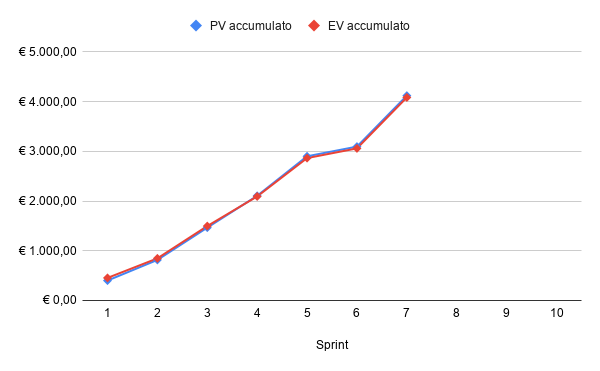
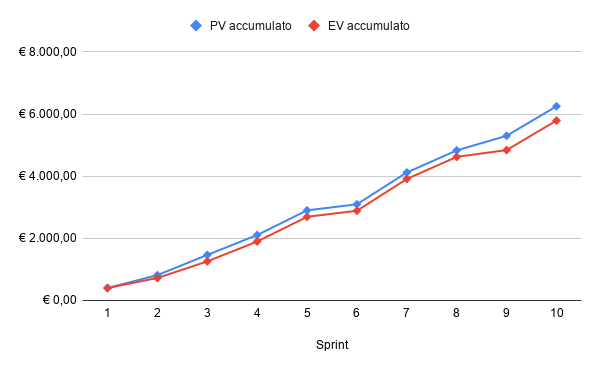
PdQ aggiornate tabelle e grafici, integrato nuovi dati  in valutazioni per il miglioramento

diff --git a/Documentazione/LaTeX/Piano di Qualifica/Piano di Qualifica.tex b/Documentazione/LaTeX/Piano di Qualifica/Piano di Qualifica.tex
@@ -858,16 +858,16 @@ L'Earned Value (EV) valuta in modo oggettivo il valore economico del lavoro effe
     \begin{tabular}{|c|c|c|c|c|}
         \hline
         \textbf{Sprint} & \textbf{Planned Value} & \textbf{Earned Value} & \textbf{PV accumulato} & \textbf{EV accumulato} \\ \hline
-        1  & \EUR{400,00} & \EUR{453,33} & \EUR{400,00} & \EUR{453,33} \\ \hline
-        2  & \EUR{415,00} & \EUR{393,16} & \EUR{815,00} & \EUR{846,49} \\ \hline
-        3  & \EUR{650,00} & \EUR{650,00} & \EUR{1.465,00} & \EUR{1.496,49} \\ \hline
-        4  & \EUR{640,00} & \EUR{595,86} & \EUR{2.105,00} & \EUR{2.092,35} \\ \hline
-        5  & \EUR{795,00} & \EUR{771,62} & \EUR{2.900,00} & \EUR{2.863,97} \\ \hline
-        6  & \EUR{195,00} & \EUR{195,00} & \EUR{3.095,00} & \EUR{3.058,97} \\ \hline
-        7  & \EUR{1.025,00} & \EUR{1.025,00} & \EUR{4.120,00} & \EUR{4.083,97} \\ \hline
-        8  & & & & \\ \hline
-        9  & & & & \\ \hline
-        10 & & & & \\ \hline
+        1  & \EUR{400,00} & \EUR{400,00} & \EUR{400,00} & \EUR{400,00} \\ \hline
+        2  & \EUR{415,00} & \EUR{322,78} & \EUR{815,00} & \EUR{722,78} \\ \hline
+        3  & \EUR{650,00} & \EUR{533,93} & \EUR{1.465,00} & \EUR{1.256,71} \\ \hline
+        4  & \EUR{640,00} & \EUR{640,00} & \EUR{2.105,00} & \EUR{1.896,71} \\ \hline
+        5  & \EUR{795,00} & \EUR{795,00} & \EUR{2.900,00} & \EUR{2.691,71} \\ \hline
+        6  & \EUR{195,00} & \EUR{195,00} & \EUR{3.095,00} & \EUR{2.886,71} \\ \hline
+        7  & \EUR{1.025,00} & \EUR{1.025,00} & \EUR{4.120,00} & \EUR{3.911,71} \\ \hline
+        8  & \EUR{710,00} & \EUR{710,00} & \EUR{4.830,00} & \EUR{4.621,71} \\ \hline
+        9  & \EUR{470,00} & \EUR{218,21} & \EUR{5.300,00} & \EUR{4.839,92} \\ \hline
+        10 & \EUR{950,00} & \EUR{950,00} & \EUR{6.250,00} & \EUR{5.789,92} \\ \hline
     \end{tabular}
     \caption{Andamento Planned Value (PV) ed Earned Value (EV)}
     \label{tab:valori_sprint}
@@ -904,16 +904,16 @@ L'Actual Cost (AC) quantifica il costo effettivo e documentato sostenuto per le 
         \begin{tabular}{|c|c|c|c|c|c|}
         \hline
         \textbf{Sprint} & \textbf{Actual Cost} & \textbf{AC accumulato} & \textbf{ETC} & \textbf{EAC} & \textbf{BAC} \\ \hline
-        1  & \EUR{355,00} & \EUR{355,00} & \EUR{8.454,74} & \EUR{8.809,74} & \EUR{11.250,00} \\ \hline
-        2  & \EUR{435,00} & \EUR{790,00} & \EUR{9.709,22} & \EUR{10.499,22} & \EUR{11.250,00} \\ \hline
-        3  & \EUR{650,00} & \EUR{1.440,00} & \EUR{9.385,32} & \EUR{10.825,32} & \EUR{11.250,00} \\ \hline
-        4  & \EUR{685,00} & \EUR{2.125,00} & \EUR{9.300,53} & \EUR{11.425,53} & \EUR{11.250,00} \\ \hline
-        5  & \EUR{815,00} & \EUR{2.940,00} & \EUR{8.608,65} & \EUR{11.548,65} & \EUR{11.250,00} \\ \hline
-        6  & \EUR{195,00} & \EUR{3.135,00} & \EUR{8.394,61} & \EUR{11.529,61} & \EUR{11.250,00} \\ \hline
-        7  & \EUR{1.055,00} & \EUR{4.190,00} & \EUR{7.352,08} & \EUR{11.542,08} & \EUR{11.250,00} \\ \hline
-        8  &  &  & & & \EUR{11.250,00} \\ \hline
-        9  &  &  & & & \EUR{11.250,00} \\ \hline
-        10 &  &  & & & \EUR{11.250,00} \\ \hline
+        1  & \EUR{355,00} & \EUR{355,00} & \EUR{9.629,38} & \EUR{9.984,38} & \EUR{11.250,00} \\ \hline
+        2  & \EUR{435,00} & \EUR{790,00} & \EUR{11.506,31} & \EUR{12.296,31} & \EUR{11.250,00} \\ \hline
+        3  & \EUR{650,00} & \EUR{1.440,00} & \EUR{11.450,84} & \EUR{12.890,84} & \EUR{11.250,00} \\ \hline
+        4  & \EUR{685,00} & \EUR{2.125,00} & \EUR{10.479,09} & \EUR{12.604,09} & \EUR{11.250,00} \\ \hline
+        5  & \EUR{815,00} & \EUR{2.940,00} & \EUR{9.347,74} & \EUR{12.287,74} & \EUR{11.250,00} \\ \hline
+        6  & \EUR{195,00} & \EUR{3.135,00} & \EUR{9.082,64} & \EUR{12.217,64} & \EUR{11.250,00} \\ \hline
+        7  & \EUR{1.055,00} & \EUR{4.190,00} & \EUR{7.860,37} & \EUR{12.050,37} & \EUR{11.250,00} \\ \hline
+        8  & \EUR{730,00} & \EUR{4.920,00} & \EUR{7.056,10} & \EUR{11.976,10} & \EUR{11.250,00} \\ \hline
+        9  & \EUR{280,00} & \EUR{5.200,00} & \EUR{6.886,98} & \EUR{12.086,98} & \EUR{11.250,00} \\ \hline
+        10 & \EUR{915,00} & \EUR{6.115,00} & \EUR{5.766,64} & \EUR{11.881,64} & \EUR{11.250,00} \\ \hline
         \end{tabular}   
     \caption{Andamento Actual Cost (AC), Estimate To Complete (ETC) ed Estimate At Complition (EAC)}
     \label{tab:costi_sprint}
@@ -957,16 +957,16 @@ Il Time Estimate At Completion (TEAC) proietta la durata complessiva finale del 
     \begin{tabular}{|c|c|}
         \hline
         \textbf{Sprint} & \textbf{TEAC (settimane)} \\ \hline
-        1  & 21 \\ \hline
-        2  & 23 \\ \hline
-        3  & 23 \\ \hline
-        4  & 24 \\ \hline
-        5  & 24 \\ \hline
-        6  & 24 \\ \hline
-        7  & 24 \\ \hline
-        8  &  \\ \hline
-        9  &    \\ \hline
-        10 &    \\ \hline
+        1  & 24 \\ \hline
+        2  & 27 \\ \hline
+        3  & 28 \\ \hline
+        4  & 27 \\ \hline
+        5  & 26 \\ \hline
+        6  & 26 \\ \hline
+        7  & 25 \\ \hline
+        8  & 25 \\ \hline
+        9  & 26  \\ \hline
+        10 & 26  \\ \hline
     \end{tabular}
     \caption{Andamento Time Estimate At Completion (TEAC)}
     \label{tab:teac_sprint}
@@ -997,17 +997,17 @@ Il Cost Performance Index (CPI) misura l’efficienza economica del progetto ind
     \renewcommand{\arraystretch}{1.3} 
     \begin{tabular}{|c|c|c|c|}
         \hline
-        \textbf{Sprint} & \textbf{\# SPI} & \textbf{\# CPI} & \textbf{Soglia accettabile} \\ \hline
-        1  & 1,13 & 1,28 & 0,9 \\ \hline
-        2  & 1,04 & 1,07 & 0,9 \\ \hline
-        3  & 1,02 & 1,04 & 0,9 \\ \hline
-        4  & 0,99 & 0,98 & 0,9 \\ \hline
-        5  & 0,99 & 0,97 & 0,9 \\ \hline
-        6  & 0,99 & 0,98 & 0,9 \\ \hline
-        7  & 0,99 & 0,97 & 0,9 \\ \hline
-        8  & & & 0,9 \\ \hline
-        9  & & & 0,9 \\ \hline
-        10 & & & 0,9 \\ \hline
+        \textbf{Sprint} & \textbf{SPI} & \textbf{PI} & \textbf{Soglia accettabile} \\ \hline
+        1  & 1,00 & 1,13 & 0,9 \\ \hline
+        2  & 0,89 & 0,91 & 0,9 \\ \hline
+        3  & 0,86 & 0,87 & 0,9 \\ \hline
+        4  & 0,90 & 0,89 & 0,9 \\ \hline
+        5  & 0,93 & 0,92 & 0,9 \\ \hline
+        6  & 0,93 & 0,92 & 0,9 \\ \hline
+        7  & 0,95 & 0,93 & 0,9 \\ \hline
+        8  & 0,96 & 0,94 & 0,9 \\ \hline
+        9  & 0,91 & 0,93 & 0,9 \\ \hline
+        10 & 0,93 & 0,95 & 0,9 \\ \hline
     \end{tabular}
     \caption{Andamento Schedule Performance Index (SPI) e Cost Performance Index (CPI)}
     \label{tab:spi_cpi_sprint}
@@ -1053,8 +1053,8 @@ Il Requirements Stability Index (RSI) misura la maturità e la stabilità dei re
         6  & 97  & 4  & 96\% & 80\% \\ \hline
         7  & 121 & 11 & 91\% & 80\% \\ \hline
         8  & 142 & 8  & 94\% & 80\% \\ \hline
-        9  &     &    &      & 80\% \\ \hline
-        10 &     &    &      & 80\% \\ \hline
+        9  & 142  & 0  & 100\%  & 80\% \\ \hline
+        10 & 142  & 0  & 100\%  & 80\% \\ \hline
     \end{tabular}
     \caption{Andamento del Requirements Stability Index (RSI)}
     \label{RSI}
@@ -1069,12 +1069,12 @@ Il Requirements Stability Index (RSI) misura la maturità e la stabilità dei re
 
 \subsubsection*{Valutazione dell'andamento}
 L'analisi del \textit{Requirements Stability Index} (RSI) evidenzia un andamento complessivamente adeguato, seppur con alcune dinamiche che meritano contestualizzazione. Nello \textit{Sprint} 1 la metrica non è calcolabile (N/A) in quanto il periodo è stato dedicato a uno studio generale del dominio, rimandando la definizione concreta dei requisiti allo \textit{Sprint} 2.
-Osservando i dati, emerge un incremento significativo e costante del numero totale di requisiti iterazione dopo iterazione (passando da 15 nello \textit{Sprint} 2 a 142 nello \textit{Sprint} 8). Sebbene una crescita così marcata in corso d'opera rappresenti in linea di principio un fattore negativo, sintomo di una possibile instabilità del perimetro di progetto, il numero dei requisiti effettivamente modificati resta molto contenuto, il calo dell'indice è stato mitigato dal fatto che il team ha operato principalmente per aggiunta, inoltre, l'ampio aumento dei requisiti negli \textit{Sprint} 7 e 8 è attribuibile a un lavoro di scomposizione di macro-requisiti in unità più granulari, senza che vi fossero reali modifiche al contenuto preesistente.
+Osservando i dati, emerge un incremento significativo e costante del numero totale di requisiti iterazione dopo iterazione (passando da 15 nello \textit{Sprint} 2 a 142 nello \textit{Sprint} 8). Sebbene una crescita così marcata in corso d'opera rappresenti in linea di principio un fattore negativo, sintomo di una possibile instabilità del perimetro di progetto, il numero dei requisiti effettivamente modificati resta molto contenuto, il calo dell'indice è stato mitigato dal fatto che il team ha operato principalmente per aggiunta, inoltre, l'ampio aumento dei requisiti negli \textit{Sprint} 7 e 8 è attribuibile a un lavoro di scomposizione di macro-requisiti in unità più granulari, senza che vi fossero reali modifiche al contenuto preesistente. Infine, negli \textit{Sprint} 9 e 10 il perimetro funzionale si è consolidato definitivamente: non sono stati né aggiunti né modificati requisiti, riportando e stabilizzando la metrica al valore del 100\%.
 
 \paragraph*{MP\_9 - Requirements Stability Index (RSI)}
 \begin{itemize}
     \item \textbf{Valore di accettazione ($\ge 80\%$):} Il vincolo è sempre rispettato.
-    \item \textbf{Valore ottimale ($= 100\%$):} Il vincolo risulta soddisfatto pienamente solo negli \textit{Sprint} 2 e 5. Nelle restanti iterazioni (3, 4, 6, 7 e 8) si registrano flessioni comprese tra il 91\% e il 97\%. 
+    \item \textbf{Valore ottimale ($= 100\%$):} Il vincolo risulta soddisfatto pienamente negli \textit{Sprint} 2, 5, 9 e 10. Nelle restanti iterazioni (3, 4, 6, 7 e 8) si registrano flessioni comprese tra il 91\% e il 97\%. 
 \end{itemize}
 
 \subsection{MP\_10: Indice di Gulpease (IG)}
@@ -1154,16 +1154,20 @@ L'indice dei Rischi non Preventivati valuta la qualità dell’analisi preventiv
 5 & \textbf{Analisi dei Requisiti} incompleta o errata, emersa da un disallineamento con il \textbf{Proponente} riguardo all'assenza di un \textit{orchestratore} preesistente. & Sì, (RR1) \\ \hline
 6 & Indisponibilità e vincoli di tempo dovuti alla drastica riduzione delle ore lavorabili da parte dei membri per la concomitanza con la sessione d'esami. & Sì, (RI1) \\ \hline
 7 & Sottostima e sovrastima delle attività, manifestatesi con uno scostamento tra le ore preventivate e quelle effettivamente impiegate dai singoli, oltre ad una scarsa pianificazione dovuta al accumulo del lavoro verso la fine dello \textit{sprint}. & Sì, (RO4, RO5, RO1) \\ \hline
+8 & Comunicazione interna inefficace durante le attività di verifica in parallelo, con conseguente mancanza di tracciamento delle sezioni revisionate e rischio di sovrapposizioni o mancati controlli. & Sì, (RO2) \\ \hline
+9 & Ritardo inatteso dovuto al mancato superamento della revisione \textbf{RTB}, che ha reso necessaria una ristrutturazione del \textbf{Proof of Concept (PoC)} per l'integrazione di ulteriori tecnologie. & No \\ \hline
+10 & Scarsa pianificazione e comunicazione interna inefficace nella distribuzione del carico di lavoro, con un impiego sbilanciato delle risorse che ha generato lievi ritardi a lungo termine. & Sì, (RO1, RO2) \\ \hline
 
 \caption{Analisi dei rischi occorsi per \textit{Sprint}}
 \label{tab:rischi_sprint}
 \end{xltabular}
 
-L'analisi delle criticità evidenzia che tutti i problemi occorsi durante i vari \textit{Sprint} possono essere ricondotti direttamente ai rischi già identificati e preventivati all'interno del \textbf{Piano di Progetto}. Poiché il numero di criticità inattese è nullo l'indice dei Rischi non Preventivati si attesta allo 0\%, a dimostrazione di una solida analisi preventiva che ha permesso al team di affrontare le difficoltà con strategie di mitigazione già preparate, anche se non sempre queste strategie sono state applicate con rigorosità, portando al ripetersi di alcuni rischi (RO1 nello \textit{Sprint} 3 e 7).
+L'analisi delle criticità evidenzia che la quasi totalità dei problemi occorsi durante i vari \textit{sprint} può essere ricondotta direttamente ai rischi già identificati e preventivati all'interno del \textbf{Piano di Progetto}, ad eccezione di una singola criticità. Durante lo \textit{sprint} 9, infatti, il mancato superamento della revisione \textbf{RTB} per un \textbf{PoC} inadatto, ha rappresentato un rischio inatteso e non direttamente riconducibile ai rischi preventivati. Di conseguenza, l'indice dei Rischi non Preventivati si attesta al 12.5\% (1 evento non preventivato su 8). Questo dimostra comunque una solida analisi preventiva di base, sebbene le strategie di mitigazione non siano sempre state applicate con rigorosità, portando al ripetersi ricorrente di alcuni rischi organizzativi (in particolare RO1 negli \textit{sprint} 3, 7 e 10, e RO2 negli \textit{sprint} 2, 8 e 10), mostrando la necessità di cambiamenti effettivi nell'organizzazione del gruppo.
+
 \paragraph*{MP\_14 - Rischi non Preventivati}
 \begin{itemize}
-\item \textbf{Valore di accettazione ($\le 20\%$):} Il vincolo è sempre rispettato.
-\item \textbf{Valore ottimale ($= 0\%$):} Il vincolo è pienamente soddisfatto. La totalità degli imprevisti riscontrati era stata correttamente contemplata in fase di pianificazione.
+\item \textbf{Valore di accettazione ($\le 20\%$):} Il vincolo è rispettato, attestandosi al 12.5\%.
+\item \textbf{Valore ottimale ($= 0\%$):} Il vincolo non è pienamente soddisfatto a causa dell'imprevisto occorso nello \textit{sprint} 9, pur mantenendosi all'interno della soglia di accettabilità.
 \end{itemize}
 
 \subsection{MP\_15: Time Efficiency (TE)}
@@ -1176,15 +1180,15 @@ Il Time Efficiency (TE) monitora l’efficienza organizzativa quantificando la p
         \hline
         \textbf{Sprint} & \textbf{Ore previste cum.} & \textbf{Ore effettive cum.} & \textbf{\% TE} & \textbf{Soglia accettabile} \\ \hline
         1  & 17  & 15  & 113,3\% & 80\% \\ \hline
-        2  & 35  & 34  & 102,9\% & 80\% \\ \hline
-        3  & 63  & 62  & 101,6\% & 80\% \\ \hline
-        4  & 90  & 91  & 98,9\%  & 80\% \\ \hline
-        5  & 123 & 125 & 98,4\%  & 80\% \\ \hline
-        6  & 131 & 133 & 98,5\%  & 80\% \\ \hline
-        7  & 178 & 180 & 98,9\%  & 80\% \\ \hline
-        8  &     &     &         & 80\% \\ \hline
-        9  &     &     &         & 80\% \\ \hline
-        10 &     &     &         & 80\% \\ \hline
+        2  & 31  & 34  & 91,2\%  & 80\% \\ \hline
+        3  & 54  & 62  & 87,1\%  & 80\% \\ \hline
+        4  & 81  & 91  & 89,0\%  & 80\% \\ \hline
+        5  & 114 & 125 & 91,2\%  & 80\% \\ \hline
+        6  & 122 & 133 & 91,7\%  & 80\% \\ \hline
+        7  & 169 & 180 & 93,9\%  & 80\% \\ \hline
+        8  & 210 & 222 & 94,6\%  & 80\% \\ \hline
+        9  & 223 & 237 & 94,1\%  & 80\% \\ \hline
+        10 & 273 & 285 & 95,8\%  & 80\% \\ \hline
     \end{tabular}
     \caption{Andamento Time Efficiency (TE)}
     \label{tab:ore_te_sprint}
@@ -1198,12 +1202,12 @@ Il Time Efficiency (TE) monitora l’efficienza organizzativa quantificando la p
 \end{center}
 
 \subsubsection*{Valutazione dell'andamento}
-L'analisi del \textit{Time Efficiency} (TE) mostra una fisiologica riduzione della varianza dei valori con il progredire delle iterazioni: nello \textit{Sprint} 1 si registra un picco del 113,3\%, un discostamento percentuale marcato che è tuttavia giustificato dal monte ore totale iniziale molto ridotto; in tale contesto, una minima discrepanza assoluta (17 ore previste contro 15 effettive) produce un impatto matematico sproporzionato sul risultato. Essendo una metrica cumulativa, procedendo con gli \textit{Sprint} successivi il "peso" specifico di poche ore di differenza diminuisce sempre di più in proporzione al totale. La discrpanza numerica tra le ore previste e quelle effettive resta molto bassa, indicando una buona pianificazione oraria senza sottostime o sovrastime estreme.
+L'analisi del \textit{Time Efficiency} (TE) mostra una fisiologica stabilizzazione dei valori con il progredire delle iterazioni: nello \textit{Sprint} 1 si registra un picco del 113,3\%, un discostamento percentuale marcato che è tuttavia giustificato dal monte ore totale iniziale molto ridotto; in tale contesto, una minima discrepanza assoluta (17 ore previste contro 15 effettive) produce un impatto matematico sproporzionato sul risultato. Essendo una metrica cumulativa, procedendo con gli \textit{Sprint} successivi il "peso" specifico di poche ore di differenza diminuisce sempre di più in proporzione al totale. La discrepanza numerica complessiva tra le ore previste e quelle effettive resta contenuta (273 previste contro 285 effettive alla fine dello \textit{Sprint} 10), indicando una buona pianificazione oraria senza sottostime o sovrastime estreme, nonostante una lieve flessione nella stima dell'impegno durante gli \textit{Sprint} 3 e 4.
 
 \paragraph*{MP\_15 - Time Efficiency (TE)}
 \begin{itemize}
-    \item \textbf{Valore di accettazione ($\ge 60\%$):} Il vincolo è sempre rispettato, la percentuale minima registrata è stata del 98,4\% (\textit{Sprint} 5), mantenendosi abbondantemente al di sopra della soglia di tolleranza richiesta.
-    \item \textbf{Valore ottimale ($\ge 90\%$):} Il vincolo risulta costantemente soddisfatto per l'intera durata del progetto.
+    \item \textbf{Valore di accettazione ($\ge 60\%$):} Il vincolo è sempre rispettato. La percentuale minima registrata è stata dell'87,1\% (\textit{Sprint} 3), mantenendosi costantemente al di sopra della soglia di tolleranza richiesta.
+    \item \textbf{Valore ottimale ($\ge 90\%$):} Il vincolo è soddisfatto per la maggior parte della durata del progetto. Si sono registrati valori inferiori alla soglia ottimale del 90\% solamente durante gli \textit{Sprint} 3 (87,1\%) e 4 (89,0\%), prima di intraprendere un costante trend di risalita che ha riportato e mantenuto la metrica su valori adeguati fino allo \textit{Sprint} 10 (95,8\%).
 \end{itemize}
 
 \section{Valutazioni per il miglioramento}
@@ -1246,7 +1250,7 @@ Questa sezione analizza l'efficacia delle metodologie di pianificazione adottate
 Durante l'avanzamento del progetto, le metriche organizzative e l'analisi dei \textit{Burndown Chart} hanno fatto emergere le seguenti criticità, tutte riconducibili a rischi preventivati nel \textbf{Piano di Progetto}:
 
 \begin{itemize}
-    \item \textbf{[RO1] - Scarsa Pianificazione (\textit{Sprint} 1 e \textit{Sprint} 3):} Nel primo \textit{Sprint}, la definizione delle attività è risultata eccessivamente generica (es. "Inizio stesura \textbf{Analisi dei Requisiti}"). Questa mancanza di granularità ha ostacolato il monitoraggio dei progressi. Nonostante un primo tentativo di risoluzione, il problema si è ripresentato nello \textit{Sprint} 3, dove la scomposizione delle \textit{Issue} non si è rivelata ancora sufficientemente atomica. Ciò ha generato colli di bottiglia e ha impedito la chiusura definitiva di diverse attività, causando uno slittamento dei \textit{task} allo \textit{Sprint} successivo.
+    \item \textbf{[RO1] - Scarsa Pianificazione (\textit{Sprint} 1, 3 e 10):} Nel primo \textit{Sprint}, la definizione delle attività è risultata eccessivamente generica (es. "Inizio stesura \textbf{Analisi dei Requisiti}"). Questa mancanza di granularità ha ostacolato il monitoraggio dei progressi. Nonostante un primo tentativo di risoluzione, il problema si è ripresentato nello \textit{Sprint} 3, dove la scomposizione delle \textit{Issue} non si è rivelata ancora sufficientemente atomica. Ciò ha generato colli di bottiglia e ha impedito la chiusura definitiva di diverse attività, causando uno slittamento dei \textit{task} allo \textit{Sprint} successivo. Infine, nello \textit{Sprint} 10, una mancanza di pianificazione trasversale ha visto impegnati a pieno regime solo i ruoli di progettazione e codifica, lasciando il resto del gruppo con compiti minimi e causando l'accumulo di lievi ritardi sul lungo termine.
     \item \textbf{[RO3] - Comunicazione Esterna Inefficace/Inefficiente (\textit{Sprint} 4):} Si è registrata una forte difficoltà comunicativa con l'azienda \textbf{Proponente (VarGroup)}, caratterizzata da risposte lente che hanno ritardato l'organizzazione di un incontro fondamentale per la validazione dell'\textbf{Analisi dei Requisiti}. Questo ha costretto il gruppo a dover rivalutare alcune scadenze interne, rallentando la tabella di marcia.
     \item \textbf{[RO4] Sottostima e [RO5] Sovrastima delle Attività (\textit{Sprint} 7):} Si è verificato un lieve scostamento, a livello individuale, tra le ore preventivate e quelle effettivamente impiegate per lo svolgimento delle mansioni. L'analisi retrospettiva ha inoltre evidenziato come la durata bisettimanale degli \textit{Sprint} favorisse, in alcuni casi, la tendenza a concentrare il carico di lavoro verso la fine del periodo, inficiando la qualità dei risultati e rallentando il flusso di lavoro continuo.
 \end{itemize}
@@ -1256,9 +1260,9 @@ Per mitigare le criticità organizzative riscontrate, il gruppo ha implementato 
 
 \begin{itemize}
     \item \textbf{Scomposizione atomica e propedeuticità:} Per risolvere il rischio \textbf{[RO1]}, a partire dallo \textit{Sprint} 2 e ulteriormente dopo lo \textit{Sprint} 3 si è imposta una scomposizione delle macro-attività in \textit{Issue} atomiche, piccole e indipendenti, fin dalla fase di pianificazione. È stato inoltre integrato l'uso dei \textit{Burndown Chart} per un monitoraggio \textit{data-driven} dell'andamento.
-    \item \textbf{Flessibilità operativa (\textit{Issue} non assegnate):} Per ottimizzare i tempi e assorbire eventuali variazioni di carico, sono state introdotte le "\textit{Issue} non assegnate". I membri che terminano in anticipo i propri compiti (\textbf{[RO5]}) possono ora assegnarsi autonomamente nuove attività, aumentando la produttività globale.
+    \item \textbf{Flessibilità operativa (\textit{Issue} non assegnate):} Per ottimizzare i tempi e assorbire eventuali variazioni di carico, sono state introdotte le "\textit{Issue} non assegnate". I membri che terminano in anticipo i propri compiti \textbf{[RO5]} possono ora assegnarsi autonomamente nuove attività, aumentando la produttività globale.
     \item \textbf{Miglioramento dei protocolli di comunicazione esterna:} A fronte del rischio \textbf{[RO3]}, il team ha standardizzato le interazioni con il \textbf{Proponente}: le richieste critiche vengono ora formulate sempre per iscritto, i referenti aziendali vengono taggati esplicitamente su \textit{Slack} per garantire visibilità, e le richieste di incontro vengono inoltrate con largo anticipo.
-    \item \textbf{Riduzione della durata degli \textit{Sprint}:} Per contrastare i rischi \textbf{[RO4]} e \textbf{[RO5]} e mantenere alta la concentrazione, a partire dallo \textit{Sprint} 8 la durata delle iterazioni è stata ridotta a una singola settimana. L'effetto psicologico di una scadenza ravvicinata mira ad aumentare la costanza produttiva.
+    \item \textbf{Riduzione della durata degli \textit{Sprint}:} Per contrastare i rischi \textbf{[RO4]} e \textbf{[RO5]} e mantenere alta la concentrazione, a partire dallo \textit{Sprint} 8 la durata degli sprint è stata ridotta a circa una settimana ma con amplia flessibilità nelle durate in base alle necessità del momento, questo anche per contrastare il rischio \textbf{[RO1]} avendo maggiore capacità a reagire in modo tempestivo ad errori pianificazione. 
 \end{itemize}
 
 \subsection{Valutazione sui ruoli}
@@ -1268,7 +1272,7 @@ Questa sezione valuta l'aderenza dei membri del team ai doveri prescritti dal ru
 L'interazione tra i vari ruoli ha fatto emergere alcune difficoltà pratiche e imprevisti legati al fattore umano e alle competenze, mappati come segue:
 
 \begin{itemize}
-    \item \textbf{[RO2] - Comunicazione Interna Inefficace (\textit{Sprint} 2):} L'introduzione di \textit{Issue} più fini e granulari ha generato, inizialmente, una difficoltà di coordinamento sincrono tra i ruoli, evidenziando una latenza nei passaggi di consegna.
+    \item \textbf{[RO2] - Comunicazione Interna Inefficace (\textit{Sprint} 2, 8 e 10):} L'introduzione di \textit{Issue} più fini e granulari ha generato, inizialmente nello \textit{Sprint} 2, una difficoltà di coordinamento sincrono tra i ruoli, evidenziando una latenza nei passaggi di consegna. Nello \textit{Sprint} 8, durante le attività di verifica in parallelo, la mancanza di una registrazione puntuale ha causato incertezze sulla copertura dei controlli, rischiando di generare sovrapposizioni o di lasciare sezioni non verificate. Nello \textit{Sprint} 10, infine, questa inefficacia comunicativa ha aggravato le mancanze di pianificazione, impedendo al gruppo di ridistribuire tempestivamente i carichi di lavoro tra i ruoli.
     \item \textbf{[RR1] - \textbf{Analisi dei Requisiti} Incompleta o Errata (\textit{Sprint} 5):} A causa di un disallineamento informativo con il \textbf{Proponente} (l'assenza di un \textit{orchestratore} agentico preesistente), è nata la necessità di modificare in parte l'\textbf{Analisi dei Requisiti} e la progettazione fatta su quel aspetto architetturale.
     \item \textbf{[RI1] - Indisponibilità e Vincoli di Tempo (\textit{Sprint} 6):} La concomitanza con la sessione estiva di esami ha comportato una drastica, seppur prevista, riduzione della disponibilità oraria di tutti i componenti del team. Questo vincolo ha rallentato temporaneamente il ritmo delle attività di sviluppo e stesura, rendendo difficile per i ruoli operativi mantenere il passo precedente.
 \end{itemize}
@@ -1280,7 +1284,7 @@ Le azioni intraprese per migliorare le dinamiche di ruolo e il bilanciamento del
     \item \textbf{Comunicazione inter-ruolo:} Per mitigare il rischio \textbf{[RO2]}, i membri del gruppo si sono impegnati a mantenere una comunicazione reciproca costante tramite canali a bassa latenza (\textbf{WhatsApp} e canali \textbf{Discord}). Questo ha portato a buoni risultati, come dimostrato nello \textit{Sprint} 7, dove i ruoli di \textbf{Analista} e \textbf{Verificatore} hanno iniziato a collaborare in parallelo, implementando correzioni e verifiche in modo continuo e senza tempi morti.
     \item \textbf{Revisione documentale e riprogettazione sinergica tra ruoli:} Per far fronte alla criticità \textbf{[RR1]}, il lavoro degli \textit{Analisti} è stato intensificato per correggere i \textit{casi d'uso} e i requisiti definiti, aggiornare il tracciamento e riallineare il documento di \textbf{Analisi dei Requisiti} alla nuova realtà di progetto. Parallelamente, il focus del \textit{Progettista} è stato reindirizzato: anziché studiare l'integrazione di un sistema di terze parti, il carico di lavoro è stato spostato verso la progettazione ex novo di un \textit{orchestratore} deterministico interno e basilare.
     \item \textbf{Pianificazione di mantenimento e recupero intensivo:} In risposta all'indisponibilità per gli esami (\textbf{[RI1]}), si è deciso di non forzare il lavoro, adottando per lo \textit{Sprint} 6 una pianificazione di "mantenimento" volta a preservare l'integrità dei requisiti base senza generare codice di bassa qualità. Conclusa la sessione, il ruolo di \textit{Programmatore} è stato potenziato nello \textit{Sprint} 7 tramite una rimodulazione intensiva delle ore, parallelizzando lo sviluppo per recuperare il disavanzo accumulato.
-    \item \textbf{Trasparenza e tempestività:} È stata inserita come regola ferrea nel \textit{Way of Working} la comunicazione tempestiva (e non a ridosso delle scadenze) di eventuali indisponibilità personali, dubbi sulle proprie competenze riguardo a un \textit{task}, o blocchi tecnici. Questo permette al \textit{Responsabile} di riassegnare i ruoli o affiancare membri più esperti (\textit{Peer Review}) prima che il ritardo diventi critico.
+    \item \textbf{Trasparenza e tempestività:} È stata inserita come regola ferrea nel \textit{Way of Working} la comunicazione tempestiva (e non a ridosso delle scadenze) di eventuali indisponibilità personali, dubbi sulle proprie competenze riguardo a un \textit{task}, o blocchi tecnici. Questo permette al \textit{Responsabile} di riassegnare i ruoli o affiancare membri più esperti (\textit{Peer Review}) prima che il ritardo diventi critico. Inoltre sono stati adottati \textit{sprint} di durata breve e flessibile garantendo maggiore comunicazione nel team, mitigando il rischio [\textbf{RO2}].
 \end{itemize}
 
 \end{document}

diff --git a/Documentazione/LaTeX/Piano di Progetto/Piano di Progetto.tex b/Documentazione/LaTeX/Piano di Progetto/Piano di Progetto.tex
@@ -2031,7 +2031,7 @@ Le risorse economiche utilizzate durante lo \textit{sprint} sono:
     \label{fig:burndown-sprint8}
 \end{figure}
 
-\paragraph{Analisi dei rischi occorsi} Durante lo svolgimento delle attività di verifica in parallelo da parte di molteplici membri, il gruppo ha riscontrato il rischio di Comunicazione Interna Inefficace \textbf{(RO2)} e di Bassa Qualità/Omissione delle Verifiche \textbf{(RI2)}. Nello specifico, la mancanza di una registrazione puntuale di chi stesse controllando quale sezione dello stesso documento ha causato incertezze sulla copertura dei controlli, rischiando di generare sovrapposizioni o, al contrario, di lasciare sezioni non verificate.
+\paragraph{Analisi dei rischi occorsi} Durante lo svolgimento delle attività di verifica in parallelo da parte di molteplici membri, il gruppo ha riscontrato il rischio di Comunicazione Interna Inefficace \textbf{(RO2)}. Nello specifico, la mancanza di una registrazione puntuale di chi stesse controllando quale sezione dello stesso documento ha causato incertezze sulla copertura dei controlli, rischiando di generare sovrapposizioni o, al contrario, di lasciare sezioni non verificate.
 
 
 \paragraph{\textit{Retrospettiva}} Lo \textit{sprint} si è concluso con il completamento di tutti i compiti pianificati, stando in tempi e budget simili a quanto preventivato, mostrando la solidità del approccio avuto, d'altra parte si sono presentate delle nuove problematiche che che porteranno dei cambiamenti nei futuri \textit{sprint}.
